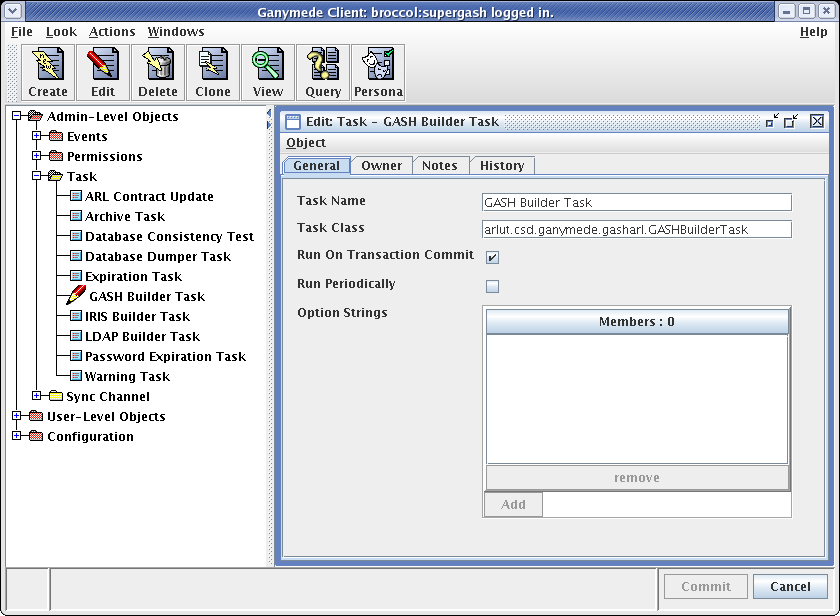
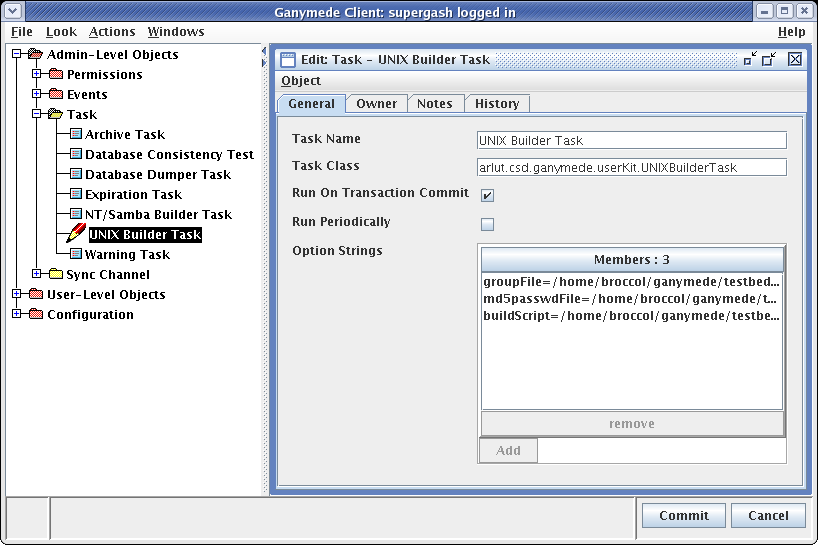
Created a new version of the synchronization screen shot based on the UnixBuilderTask from the userKit.
-- Jon

Changed region(s): [[0.0, 0.0, 1.0, 1.0]]

diff --git a/doc/synchronization/index.html b/doc/synchronization/index.html
@@ -12,13 +12,13 @@
 
     <h2>1. Ganymede, Synchronization, and You</h2>
 
-    <p>Ganymede is a synchronization engine.  Leaving aside the
+    <p>Ganymede is a synchronization engine.  Leave aside the
     graphical interface, the programmable business rules, the
-    transactional database, and all of that, Ganymede is basically
-    about copying data around.  Users and automated processes feed
-    changes into Ganymede, and Ganymede makes sure that the updated
-    data gets properly fed into whatever directory services or
-    databases the adopter might wish to support.</p>
+    transactional database, all of that.  Ganymede is basically about
+    copying data around.  Users and automated processes feed changes
+    into Ganymede, and Ganymede makes sure that the updated data gets
+    properly fed into whatever directory services or databases the
+    adopter might wish to support.</p>
 
     <p>This document is intended to be a comprehensive guide to
     implementing data synchronization from Ganymede to your target
@@ -44,15 +44,16 @@
     <h2>2. Approaches to Synchronization</h2>
 
     <p>Ganymede is designed around a transactional model, in which a
-    set of changes that transitions the Ganymede server from one
-    consistent state to another consistent state are processed as a
-    single unit of work.  When a user commits a transaction into the
-    Ganymede server, the server knows that things have changed, and
-    that it needs to try and push its data out to target services.</p>
+    set of changes that transition the Ganymede server from one
+    consistent state to another are processed as a single unit of
+    work.  As such, the transaction is both the minimum unit of change
+    for Ganymede and the trigger that causes the Ganymede server to
+    synchronize its data to target directory services.</p>
 
-    <p>There are, in priniciple, two ways that Ganymede could do that.
-    It could dump out everything it knows and arrange for that 'full
-    state' information to completely replace the previous state of the
+    <p>There are, in priniciple, two ways that Ganymede might handle
+    synchronizing data to the services that it feeds.  It could dump
+    out everything it knows and arrange for that 'full state'
+    information to completely replace the previous state of the
     external managed services, or it could just send out information
     about the transactions that were made since the last
     synchronization.  Directory services like NIS and DNS have
@@ -247,7 +248,8 @@
     class="filename">buildCustomJar</code> script.  You can then start
     up your server and your new <a
     href="../javadoc/arlut/csd/ganymede/server/GanymedeBuilderTask.html">GanymedeBuilderTask</a>
-    subclass should be accessible to the Ganymede server.</p>
+    subclass should be accessible to the Ganymede server.  Accessible,
+    but not yet linked into the Ganymede database for actual use.</p>
 
     <h4 id="creating_buildertask">Registering Your Builder Task For Execution</h4>
 
